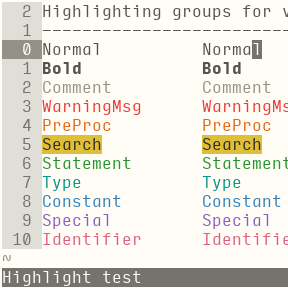
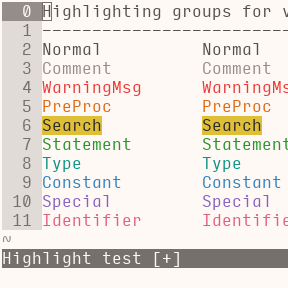
adjust hue

diff --git a/README.md b/README.md
@@ -80,42 +80,42 @@ call plug#end()
   </thead>
   <tbody>
     <tr>
-      <td style="text-align: right"><img src="http://www.colorhexa.com/2b2b28.png" height="24" width="42" /> <code class="highlighter-rouge">2b2b28</code> </td>
+      <td style="text-align: right"><img src="http://www.colorhexa.com/2b2928.png" height="24" width="42" /> <code class="highlighter-rouge">2b2928</code> </td>
       <td style="text-align: center"><img src="http://www.colorhexa.com/eb3a3a.png" height="24" width="42" /> <code class="highlighter-rouge">eb3a3a</code> </td>
       <td style="text-align: left"><img src="http://www.colorhexa.com/eb6363.png" height="24" width="42" /> <code class="highlighter-rouge">eb6363</code></td>
     </tr>
     <tr>
-      <td style="text-align: right"><img src="http://www.colorhexa.com/403f3b.png" height="24" width="42" /> <code class="highlighter-rouge">403f3b</code> </td>
+      <td style="text-align: right"><img src="http://www.colorhexa.com/403d3b.png" height="24" width="42" /> <code class="highlighter-rouge">403d3b</code> </td>
       <td style="text-align: center"><img src="http://www.colorhexa.com/e06812.png" height="24" width="42" /> <code class="highlighter-rouge">e06812</code> </td>
       <td style="text-align: left"><img src="http://www.colorhexa.com/e0894a.png" height="24" width="42" /> <code class="highlighter-rouge">e0894a</code></td>
     </tr>
     <tr>
-      <td style="text-align: right"><img src="http://www.colorhexa.com/54534d.png" height="24" width="42" /> <code class="highlighter-rouge">54534d</code> </td>
+      <td style="text-align: right"><img src="http://www.colorhexa.com/54504d.png" height="24" width="42" /> <code class="highlighter-rouge">54504d</code> </td>
       <td style="text-align: center"><img src="http://www.colorhexa.com/e0bf38.png" height="24" width="42" /> <code class="highlighter-rouge">e0bf38</code> </td>
       <td style="text-align: left"><img src="http://www.colorhexa.com/e0c34a.png" height="24" width="42" /> <code class="highlighter-rouge">e0c34a</code></td>
     </tr>
     <tr>
-      <td style="text-align: right"><img src="http://www.colorhexa.com/75736c.png" height="24" width="42" /> <code class="highlighter-rouge">75736c</code> </td>
+      <td style="text-align: right"><img src="http://www.colorhexa.com/75706c.png" height="24" width="42" /> <code class="highlighter-rouge">75706c</code> </td>
       <td style="text-align: center"><img src="http://www.colorhexa.com/25942e.png" height="24" width="42" /> <code class="highlighter-rouge">25942e</code> </td>
       <td style="text-align: left"><img src="http://www.colorhexa.com/639467.png" height="24" width="42" /> <code class="highlighter-rouge">639467</code></td>
     </tr>
     <tr>
-      <td style="text-align: right"><img src="http://www.colorhexa.com/949288.png" height="24" width="42" /> <code class="highlighter-rouge">949288</code> </td>
+      <td style="text-align: right"><img src="http://www.colorhexa.com/948d88.png" height="24" width="42" /> <code class="highlighter-rouge">948d88</code> </td>
       <td style="text-align: center"><img src="http://www.colorhexa.com/0c9489.png" height="24" width="42" /> <code class="highlighter-rouge">0c9489</code> </td>
       <td style="text-align: left"><img src="http://www.colorhexa.com/4a948e.png" height="24" width="42" /> <code class="highlighter-rouge">4a948e</code></td>
     </tr>
     <tr>
-      <td style="text-align: right"><img src="http://www.colorhexa.com/bfbcb0.png" height="24" width="42" /> <code class="highlighter-rouge">bfbcb0</code> </td>
+      <td style="text-align: right"><img src="http://www.colorhexa.com/bfb6b0.png" height="24" width="42" /> <code class="highlighter-rouge">bfb6b0</code> </td>
       <td style="text-align: center"><img src="http://www.colorhexa.com/3083bf.png" height="24" width="42" /> <code class="highlighter-rouge">3083bf</code> </td>
       <td style="text-align: left"><img src="http://www.colorhexa.com/6097bf.png" height="24" width="42" /> <code class="highlighter-rouge">6097bf</code></td>
     </tr>
     <tr>
-      <td style="text-align: right"><img src="http://www.colorhexa.com/e0dfd7.png" height="24" width="42" /> <code class="highlighter-rouge">e0dfd7</code> </td>
+      <td style="text-align: right"><img src="http://www.colorhexa.com/e0dbd7.png" height="24" width="42" /> <code class="highlighter-rouge">e0dbd7</code> </td>
       <td style="text-align: center"><img src="http://www.colorhexa.com/8760bf.png" height="24" width="42" /> <code class="highlighter-rouge">8760bf</code> </td>
       <td style="text-align: left"><img src="http://www.colorhexa.com/9a80bf.png" height="24" width="42" /> <code class="highlighter-rouge">9a80bf</code></td>
     </tr>
     <tr>
-      <td style="text-align: right"><img src="http://www.colorhexa.com/fffdf5.png" height="24" width="42" /> <code class="highlighter-rouge">fffdf5</code> </td>
+      <td style="text-align: right"><img src="http://www.colorhexa.com/fff9f5.png" height="24" width="42" /> <code class="highlighter-rouge">fff9f5</code> </td>
       <td style="text-align: center"><img src="http://www.colorhexa.com/e05e85.png" height="24" width="42" /> <code class="highlighter-rouge">e05e85</code> </td>
       <td style="text-align: left"><img src="http://www.colorhexa.com/e0829e.png" height="24" width="42" /> <code class="highlighter-rouge">e0829e</code></td>
     </tr>
